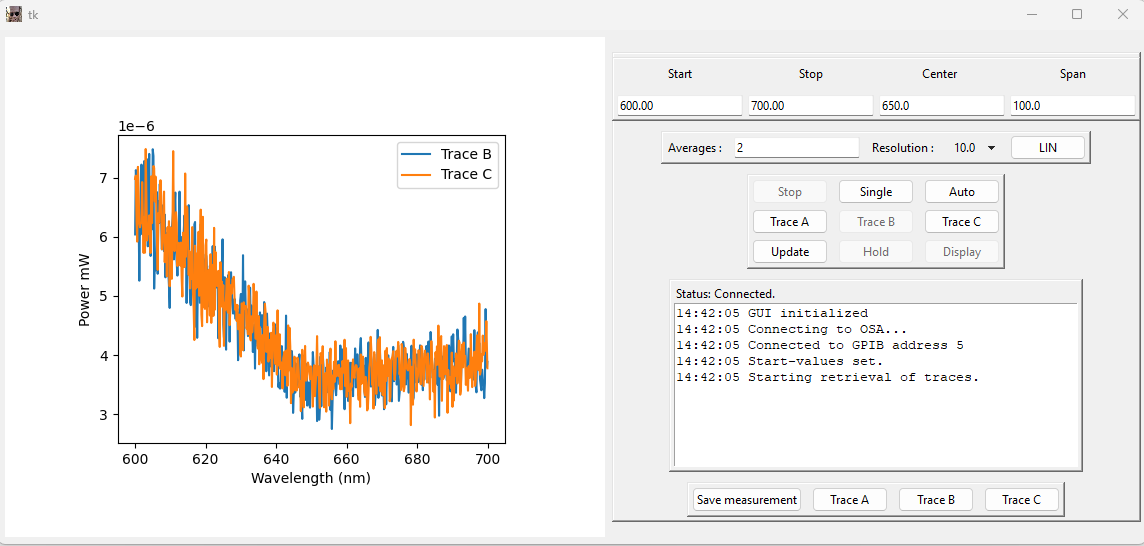
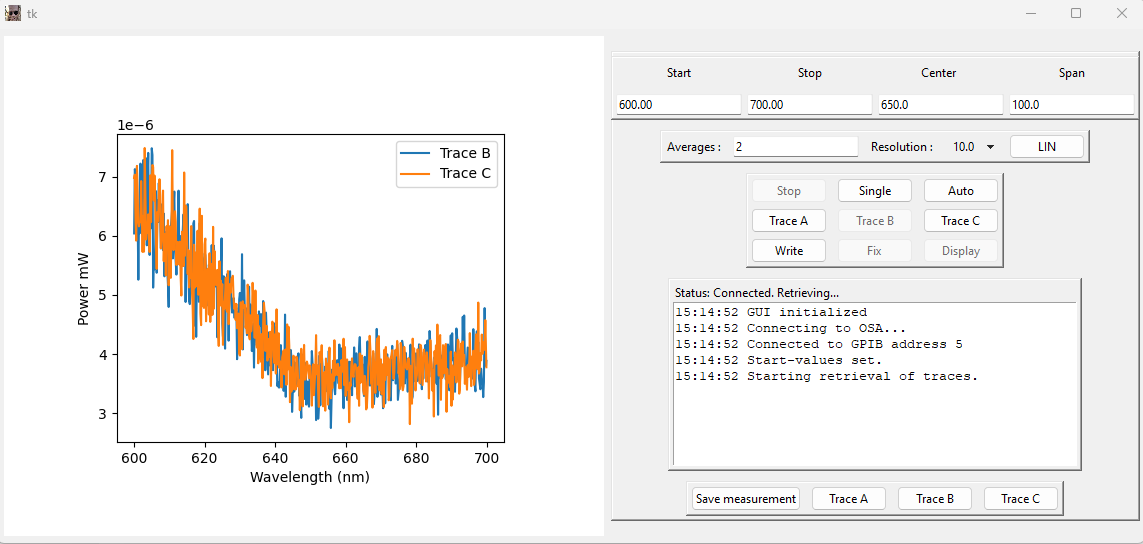
updated image
updated image

diff --git a/OSA/old_osa/OSAview.py b/OSA/old_osa/OSAview.py
@@ -1,7 +1,6 @@
 #!/usr/bin/python3
 import tkinter as tk
 import tkinter.ttk as ttk
-from pygubu.widgets.pathchooserinput import PathChooserInput
 import time
 
 
@@ -57,10 +56,10 @@ class ANDO_OSA:
 
 
         self.update_button = ttk.Button(self.trace_frame)
-        self.update_button.configure(text='Update')
+        self.update_button.configure(text='Write')
         self.update_button.grid(column=1, pady=5, row=2)
         self.hold_button = ttk.Button(self.trace_frame)
-        self.hold_button.configure(text='Hold')
+        self.hold_button.configure(text='Fix')
         self.hold_button.grid(column=2, row=2)
         self.display_button = ttk.Button(self.trace_frame)
         self.display_button.configure(text='Display')
